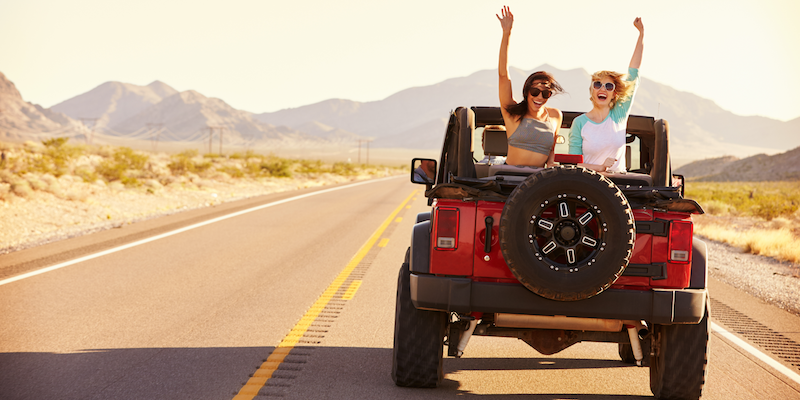
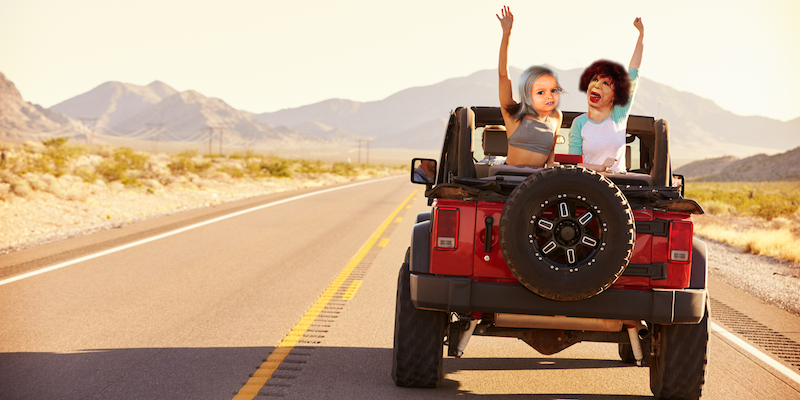
cambiar img carrrusel1

Changed region(s): [[0.625, 0.15, 0.8125, 0.3]]

diff --git a/public_html/index.php b/public_html/index.php
@@ -25,7 +25,6 @@ session_start();
     </head>
 
     <body>
-        <a href="controlador/logout.php"></a>
         <header>                         
             <div id="logo"><img src="img/logo.png">ZASCAR Enterprises
 
